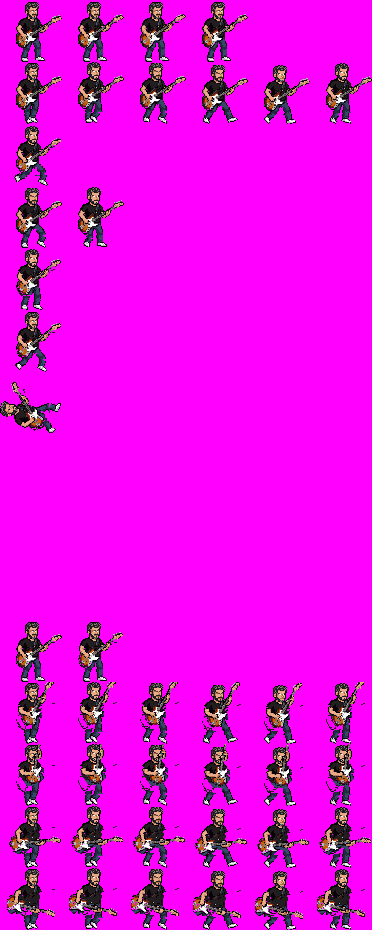
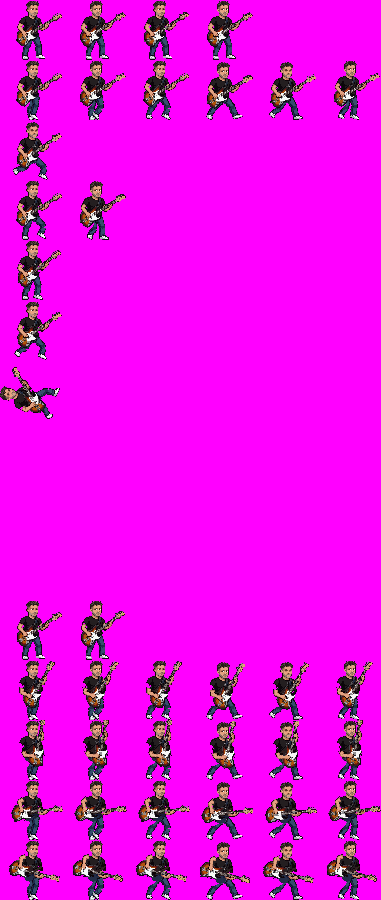
Mat : le nouveau Mat dans le jeu pour tout le monde (plus de mode essai)
Ses planches (repos, marche, visée, saut, mur, échelle, portrait, intro) remplacent
celles de l'ancien Mat ; ses tailles par situation sont dans DENSITE_HEROS
(outils/anime-instrument.py) et dans feuilles-objets.ts pour le décor.
Retiré : src/rendu/essai-mat.ts et ses appels ; les sources sont dans
assets-sources/heros/mat-source/ ; l'outil est outils/prepare-mat.py.

Claude-Session: https://claude.ai/code/session_01HgrvGb7mGF2qXcgMaLdPZX

diff --git a/src/rendu/feuilles-objets.ts b/src/rendu/feuilles-objets.ts
@@ -220,12 +220,12 @@ export const FEUILLES_DECOR: Record<string, Feuille> = {
   },
   'mat-echelle': {
     fichier: 'mat-echelle.png',
-    w: 70,
-    h: 143,
+    w: 52,
+    h: 118,
     images: [1, 1],
     rythme: 1,
-    densite: 6,
-    pied: 35,
+    densite: 4.3,
+    pied: 26,
   },
   'jbt-echelle': {
     fichier: 'jbt-echelle.png',
@@ -255,11 +255,11 @@ export const FEUILLES_DECOR: Record<string, Feuille> = {
     pied: 32,
   },
   'tom-saut': { fichier: 'tom-saut.png', w: 121, h: 116, images: [1], rythme: 1, densite: 6, pied: 60 },
-  'mat-saut': { fichier: 'mat-saut.png', w: 107, h: 104, images: [1], rythme: 1, densite: 6, pied: 53 },
+  'mat-saut': { fichier: 'mat-saut.png', w: 92, h: 97, images: [1], rythme: 1, densite: 5.2, pied: 46 },
   'jbt-saut': { fichier: 'jbt-saut.png', w: 101, h: 108, images: [1], rythme: 1, densite: 6, pied: 50 },
   'jbm-saut': { fichier: 'jbm-saut.png', w: 103, h: 112, images: [1], rythme: 1, densite: 6, pied: 52 },
   'jbg-saut': { fichier: 'jbg-saut.png', w: 96, h: 115, images: [1], rythme: 1, densite: 6, pied: 48 },
-  'mat-mur': { fichier: 'mat-mur.png', w: 100, h: 247, images: [1], rythme: 1, densite: 12, pied: 50 },
+  'mat-mur': { fichier: 'mat-mur.png', w: 61, h: 112, images: [1], rythme: 1, densite: 4.7, pied: 36 },
   'tom-mur': { fichier: 'tom-mur.png', w: 142, h: 280, images: [1], rythme: 1, densite: 12, pied: 92 },
   'jbg-mur': { fichier: 'jbg-mur.png', w: 202, h: 243, images: [1], rythme: 1, densite: 12, pied: 152 },
   'jbt-mur': { fichier: 'jbt-mur.png', w: 150, h: 267, images: [1], rythme: 1, densite: 12, pied: 100 },

diff --git a/src/rendu/feuilles-heros.ts b/src/rendu/feuilles-heros.ts
@@ -5,13 +5,13 @@ import type { Feuille } from './feuilles';
 // repos 4, course 6, saut, échelle 2, tyrolienne, mur, mort, tir 2, puis la course en visant (codes 1 à 4)
 const ANIMATIONS_HEROS = [4, 6, 1, 2, 1, 1, 1, 0, 0, 0, 2, 6, 6, 6, 6];
 
-/** Un héros avec son instrument dans le sprite ; `pied` : milieu des pieds dans l'image. */
-const heros = (fichier: string, w: number, h: number, pied: number): Feuille => ({
+/** Un héros avec son instrument dans le sprite ; `pied` : milieu des pieds dans l'image ; `densite` : pixels de planche par pixel du jeu. */
+const heros = (fichier: string, w: number, h: number, pied: number, densite = 6): Feuille => ({
   fichier,
   w,
   h,
   pied,
-  densite: 6,
+  densite,
   visees: 11,
   images: ANIMATIONS_HEROS,
   rythme: 5,
@@ -22,6 +22,6 @@ export const FEUILLES_HEROS: Partial<Record<Genre, Feuille>> = {
   [G.JBT]: heros('jbt-instrument.png', 121, 122, 65),
   [G.JBM]: heros('jbm-instrument.png', 142, 123, 82),
   [G.JBG]: heros('jbg-instrument.png', 121, 123, 67),
-  [G.MAT]: heros('mat-instrument.png', 124, 124, 70),
+  [G.MAT]: heros('mat-instrument.png', 127, 120, 68, 5.6),
   [G.TOM]: heros('tom-instrument.png', 125, 144, 73),
 };

diff --git a/src/ui/intro.ts b/src/ui/intro.ts
@@ -1,7 +1,6 @@
 import type { Synthe } from '../audio/synthe';
 import { G } from '../jeu/vue';
 import { FEUILLES } from '../rendu/feuilles';
-import { essaiMat } from '../rendu/essai-mat';
 import { imageDe, progresEssentielles } from '../rendu/feuilles-images';
 import { ecritCentre } from '../rendu/police';
 import { VERSION } from '../version';
@@ -54,7 +53,7 @@ export class Intro {
     this.passer.hidden = true;
     this.passer.addEventListener('click', () => this.termine());
     toile.after(this.passer);
-    this.bases.src = `${import.meta.env.BASE_URL}sprites/${essaiMat.actif ? 'intro-heros-essai' : 'intro-heros'}.png?v=${VERSION}`;
+    this.bases.src = `${import.meta.env.BASE_URL}sprites/intro-heros.png?v=${VERSION}`;
   }
 
   lance(): void {

diff --git a/src/ui/portraits.ts b/src/ui/portraits.ts
@@ -1,7 +1,6 @@
 import { ANIM, G } from '../jeu/vue';
 import { VERSION } from '../version';
 import type { Qui } from '../niveaux/format';
-import { essaiMat } from '../rendu/essai-mat';
 import { HEROS } from '../entites/heros';
 import { DESSINS_BOSS } from '../rendu/dessins-boss';
 import { dessineHeros, dessineKiwi } from '../rendu/dessins-heros';
@@ -83,7 +82,7 @@ const IMAGES: Partial<Record<Qui, string>> = {
 };
 
 export function portrait(qui: Qui): string {
-  const fichier = qui === 'MAT' && essaiMat.actif ? 'mat-essai' : IMAGES[qui];
+  const fichier = IMAGES[qui];
   if (fichier) return `${import.meta.env.BASE_URL}portraits/${fichier}.png?v=${VERSION}`;
   let url = cache.get(qui);
   if (url) return url;

diff --git a/src/main.ts b/src/main.ts
@@ -8,14 +8,12 @@ import { installeAntiZoom } from './entrees/anti-zoom';
 import { installeCurseurVoile } from './ui/curseur-voile';
 import { choisitVersions } from './niveaux';
 import { afficheBandeauEssai, afficheMesuresEssai, modeEssai } from './ui/essai';
-import { activeMatEssai } from './rendu/essai-mat';
 
 /** Point d'entrée : DKK : Rock Never Dies. */
 // le mode essai d'abord : les niveaux refaits remplacent les originaux avant que rien ne soit lu
 choisitVersions(modeEssai());
 if (modeEssai()) {
   afficheBandeauEssai();
-  activeMatEssai(); // le nouveau Mat, à l'essai
 }
 const app = new App();
 app.demarre();

diff --git a/outils/prepare-mat.py b/outils/prepare-mat.py
@@ -1,17 +1,17 @@
 #!/usr/bin/env python3
-"""Le nouveau Mat (mode essai) : ses images fournies → les planches du jeu, à côté de celles de l'ancien Mat.
+"""Mat : ses images fournies → les planches du jeu.
 
-Usage : python3 outils/prepare-mat-essai.py && python3 outils/anime-instrument.py mat-essai
+Usage : python3 outils/prepare-mat.py && python3 outils/anime-instrument.py mat
         (Pillow, numpy et scipy requis)
 
-Entrées : assets-sources/heros/mat-essai/ : repos.jpg (debout, la basse en main), saut.jpg, mur.jpg (de profil contre la
+Entrées : assets-sources/heros/mat-source/ : repos.jpg (debout, la basse en main), saut.jpg, mur.jpg (de profil contre la
           paroi), echelle.jpg (de dos) ; sur fond magenta, à la même échelle (une case de pixel art fait 9,75 pixels).
-Sorties : assets-sources/heros/mat-essai-instrument-base.png : Mat debout, remis sur sa grille, dans un carré : la référence
+Sorties : assets-sources/heros/mat-instrument-base.png : Mat debout, remis sur sa grille, dans un carré : la référence
           d'où anime-instrument.py tire la planche du héros (la marche, la visée : la basse et les bras pivotent ensemble,
           voir gabarits_instrument.py) ;
-          public/sprites/mat-essai-saut.png, mat-essai-mur.png, mat-essai-echelle.png (de dos, puis son miroir : les deux
-          temps de la montée, les jambes alternent), public/portraits/mat-essai.png, intro-heros-essai.png (les silhouettes de
-          l'intro, celle de Mat remplacée) ; les tailles et les pieds s'affichent (à reporter dans src/rendu/essai-mat.ts).
+          public/sprites/mat-saut.png, mat-mur.png, mat-echelle.png (de dos, puis son miroir : les deux temps de la montée,
+          les jambes alternent), public/portraits/mat.png, intro-heros.png (les silhouettes de l'intro, celle de Mat remplacée).
+          Les tailles et les pieds s'affichent : à reporter dans src/rendu/feuilles-objets.ts (les planches du décor).
 
 Chaque image est remise sur sa grille : la grille est retrouvée sur les contours, chaque case prend la couleur médiane de son
 centre ; le liseré violet que laisse le fond magenta devient le contour sombre. Un pixel de la grille est un pixel de planche
@@ -24,7 +24,7 @@ from PIL import Image
 from scipy import ndimage
 
 RACINE = pathlib.Path(__file__).resolve().parent.parent
-SRC = RACINE / 'assets-sources' / 'heros' / 'mat-essai'
+SRC = RACINE / 'assets-sources' / 'heros' / 'mat-source'
 SPRITES = RACINE / 'public' / 'sprites'
 CASE = 9.75  # la taille d'une case de pixel art dans les images fournies
 CONTOUR = (28, 22, 30)
@@ -81,8 +81,8 @@ def reference(repos):
     h, w = repos.shape[:2]
     carre = Image.new('RGBA', (CARRE, CARRE), (0, 0, 0, 0))
     carre.alpha_composite(Image.fromarray(repos), (14, CARRE - h))
-    carre.save(RACINE / 'assets-sources' / 'heros' / 'mat-essai-instrument-base.png')
-    print(f'mat-essai-instrument-base.png : {CARRE} x {CARRE}')
+    carre.save(RACINE / 'assets-sources' / 'heros' / 'mat-instrument-base.png')
+    print(f'mat-instrument-base.png : {CARRE} x {CARRE}')
 
 
 def image_seule(nat, nom, pied):
@@ -96,8 +96,8 @@ def echelle_deux_temps(nat):
     planche = Image.new('RGBA', (im.width, im.height * 2), (0, 0, 0, 0))
     planche.alpha_composite(im, (0, 0))
     planche.alpha_composite(im.transpose(Image.FLIP_LEFT_RIGHT), (0, im.height))
-    planche.save(SPRITES / 'mat-essai-echelle.png', optimize=True)
-    print(f'mat-essai-echelle.png : w {im.width}, h {im.height}, pied {im.width // 2}')
+    planche.save(SPRITES / 'mat-echelle.png', optimize=True)
+    print(f'mat-echelle.png : w {im.width}, h {im.height}, pied {im.width // 2}')
 
 
 def portrait(repos):
@@ -108,9 +108,9 @@ def portrait(repos):
     xs = np.nonzero(al[haut : haut + 14].any(0))[0]
     cx = (xs.min() + xs.max()) // 2
     Image.fromarray(repos).crop((cx - 17, haut - 2, cx + 17, haut + 32)).resize((44, 44), Image.NEAREST).save(
-        RACINE / 'public' / 'portraits' / 'mat-essai.png', optimize=True
+        RACINE / 'public' / 'portraits' / 'mat.png', optimize=True
     )
-    print('portraits/mat-essai.png : 44 x 44')  # le cadrage de la tête, agrandi au format des autres portraits
+    print('portraits/mat.png : 44 x 44')  # le cadrage de la tête, agrandi au format des autres portraits
 
 
 def intro(repos):
@@ -121,17 +121,17 @@ def intro(repos):
     k = 110 / im.height
     im = im.resize((round(im.width * k), 110), Image.NEAREST)
     planche.alpha_composite(im, (3 * 128 + 64 - im.width // 2, 128 - im.height))
-    planche.save(SPRITES / 'intro-heros-essai.png', optimize=True)
-    print('intro-heros-essai.png')
+    planche.save(SPRITES / 'intro-heros.png', optimize=True)
+    print('intro-heros.png')
 
 
 def main():
     repos = regrille('repos.jpg')
     reference(repos)
     saut = regrille('saut.jpg')
-    image_seule(saut, 'mat-essai-saut', saut.shape[1] // 2)
+    image_seule(saut, 'mat-saut', saut.shape[1] // 2)
     mur = regrille('mur.jpg')  # il regarde la paroi, à droite
-    image_seule(mur, 'mat-essai-mur', mur.shape[1] - round(BORD_MUR * DENSITE))
+    image_seule(mur, 'mat-mur', mur.shape[1] - round(BORD_MUR * DENSITE))
     echelle_deux_temps(regrille('echelle.jpg'))
     portrait(repos)
     intro(repos)

diff --git a/outils/anime-instrument.py b/outils/anime-instrument.py
@@ -155,11 +155,15 @@ def fabrique(nom):
     ap.alpha_composite(planche)
     ap.resize((ap.width // 2, ap.height // 2), Image.NEAREST).save(SRC / f'apercu-{nom}-instrument.png')
     meta = {'fichier': f'{nom}-instrument.png', 'w': w, 'h': h, 'pied': (ancre + MARGE - x0) // REDUCTION}
+    if nom in DENSITE_HEROS:
+        meta['densite'] = DENSITE_HEROS[nom]
     (SRC / f'meta-{nom}.json').write_text(json.dumps(meta, indent=2) + '\n')
     print(nom, json.dumps(meta))
 
 
 GENRES = {'jbt': 'JBT', 'jbm': 'JBM', 'jbg': 'JBG', 'mat': 'MAT', 'tom': 'TOM'}
+# pixels de planche par pixel du jeu, quand le héros n'est pas à 6 (un Mat plus grand : son image est plus petite)
+DENSITE_HEROS = {'mat': 5.6}
 
 
 def ecrit_ts():
@@ -169,16 +173,17 @@ def ecrit_ts():
         f = SRC / f'meta-{nom}.json'
         if f.exists():
             m = json.loads(f.read_text())
-            lignes.append(f"  [G.{genre}]: heros('{m['fichier']}', {m['w']}, {m['h']}, {m['pied']}),")
+            dens = f", {m['densite']}" if 'densite' in m else ''
+            lignes.append(f"  [G.{genre}]: heros('{m['fichier']}', {m['w']}, {m['h']}, {m['pied']}{dens}),")
     (RACINE / 'src' / 'rendu' / 'feuilles-heros.ts').write_text(
         "// Fichier généré par outils/anime-instrument.py : ne pas modifier à la main.\n"
         "import { G, type Genre } from '../jeu/vue';\n"
         "import type { Feuille } from './feuilles';\n\n"
         "// repos 4, course 6, saut, échelle 2, tyrolienne, mur, mort, tir 2, puis la course en visant (codes 1 à 4)\n"
         "const ANIMATIONS_HEROS = [4, 6, 1, 2, 1, 1, 1, 0, 0, 0, 2, 6, 6, 6, 6];\n\n"
-        "/** Un héros avec son instrument dans le sprite ; `pied` : milieu des pieds dans l'image. */\n"
-        "const heros = (fichier: string, w: number, h: number, pied: number): Feuille => ({\n"
-        "  fichier,\n  w,\n  h,\n  pied,\n  densite: 6,\n  visees: 11,\n  images: ANIMATIONS_HEROS,\n  rythme: 5,\n  cycle: 12,\n});\n\n"
+        "/** Un héros avec son instrument dans le sprite ; `pied` : milieu des pieds dans l'image ; `densite` : pixels de planche par pixel du jeu. */\n"
+        "const heros = (fichier: string, w: number, h: number, pied: number, densite = 6): Feuille => ({\n"
+        "  fichier,\n  w,\n  h,\n  pied,\n  densite,\n  visees: 11,\n  images: ANIMATIONS_HEROS,\n  rythme: 5,\n  cycle: 12,\n});\n\n"
         "export const FEUILLES_HEROS: Partial<Record<Genre, Feuille>> = {\n" + '\n'.join(lignes) + '\n};\n'
     )
 

diff --git a/outils/gabarits_instrument.py b/outils/gabarits_instrument.py
@@ -45,26 +45,7 @@ def source_jbm(x, y, rgb):
     return r + g + b > 180 and abs(r - b) < 25
 
 
-# ---- Mat : basse tenue comme la guitare de Tom
-MAT = [
-    Membre('arme', [(36, 96), (62, 96), (66, 122), (98, 120), (108, 108), (140, 96), (176, 70), (222, 60), (224, 100),
-                    (170, 108), (168, 128), (142, 134), (120, 152), (118, 164), (100, 194), (36, 194)],
-           (60, 102), filtre=pas_noir, z=1, epure=True),
-] + jambes(
-    [(100, 150), (140, 150), (140, 205), (100, 205)], [(104, 205), (154, 205), (154, 250), (104, 250)],
-    [(58, 186), (102, 186), (102, 214), (58, 214)], [(54, 212), (102, 212), (102, 252), (54, 252)],
-    (122, 158), (122, 206), (84, 186), (76, 212), ((122, 206), (0, 1)), ((76, 212), (0, 1)), retient=12)
-CORPS_MAT = [(52, 96), (126, 92), (134, 130), (128, 172), (80, 172), (50, 130)]
-
-
-def source_mat(x, y, rgb):
-    r, g, b = rgb
-    if y < 152:
-        return 18 <= r <= 48 and 18 <= g <= 48 and 18 <= b <= 52
-    return b > r + 25 and b < 140 and r < 70
-
-
-# ---- Mat à l'essai (outils/prepare-mat-essai.py) : la basse et les deux bras pivotent ensemble ; les points sont donnés sur sa
+# ---- Mat (outils/prepare-mat-essai.py) : la basse et les deux bras pivotent ensemble ; les points sont donnés sur sa
 # grille d'origine (Mat debout, 118 pixels), posée à 14 pixels du bord et agrandie deux fois dans l'espace de travail
 def _me(*points):
     return [(2 * (x + 14), 2 * (y + 2)) for x, y in points]
@@ -133,8 +114,7 @@ VISEES_BRAS = {1: -40, 2: -75, 3: 35, 4: 70}
 HEROS = {
     'tom': (MEMBRES_TOM, CORPS_TOM, SOURCE_TOM, 262, VISEES_GUITARE),
     'jbm': (JBM, CORPS_JBM, source_jbm, 117, VISEES_BRAS),
-    'mat': (MAT, CORPS_MAT, source_mat, 112, VISEES_GUITARE),
     'jbt': (JBT, CORPS_JBT, source_jbt, 118, VISEES_BRAS),
     'jbg': (JBG, CORPS_JBG, None, 118, VISEES_GUITARE),
-    'mat-essai': (MAT_ESSAI, CORPS_MAT_ESSAI, source_mat_essai, 98, VISEES_GUITARE),
+    'mat': (MAT_ESSAI, CORPS_MAT_ESSAI, source_mat_essai, 98, VISEES_GUITARE),
 }

diff --git a/outils/prepare_instrument.py b/outils/prepare_instrument.py
@@ -16,9 +16,8 @@ SPECS = {
     'tom': ('tom-guitare-base.png', 2.0, 1.0),
     'jbm': ('jbm-instrument-base.png', 10.0, 2.5),
     'jbt': ('jbt-instrument-base.png', 10.0, 2.5),
-    'mat': ('mat-instrument-base.png', 11.0, 2.75),
     'jbg': ('jbg-instrument-base.png', 5.0, 1.25),
-    'mat-essai': ('mat-essai-instrument-base.png', 1.0, 2.0),  # déjà sur sa grille (outils/prepare-mat-essai.py)
+    'mat': ('mat-instrument-base.png', 1.0, 2.0),  # déjà sur sa grille (outils/prepare-mat-essai.py)
 }
 
 

diff --git a/README.md b/README.md
@@ -420,10 +420,11 @@ validé.
   ne l'ont qu'une fois son `id` ajouté à `REFONTES_PUBLIEES` (augmenter alors `VERSION_PROTOCOLE`) ; avant, on l'essaie en
   ouvrant le jeu avec `?essai` à la fin de l'adresse (rien n'est retenu : sans lui, c'est le jeu de tout le monde ; un
   bandeau le rappelle) : le menu « Niveaux refaits » propose chaque niveau refait dans sa version d'avant et dans sa version
-  refaite, sans rien sauvegarder. Le mode essai montre aussi le nouveau Mat : ses images (`assets-sources/heros/mat-essai/`)
-  passent par `outils/prepare-mat-essai.py` puis `outils/anime-instrument.py mat-essai` (la marche et la visée, comme les autres
-  héros) et remplacent celles de l'ancien en jeu, à l'écran titre, dans l'intro, à la découverte des cages et dans les dialogues
-  (`src/rendu/essai-mat.ts`).
+  refaite, sans rien sauvegarder.
+  Mat est fait à partir de ses images (`assets-sources/heros/mat-source/`) : `outils/prepare-mat.py` (saut, mur, échelle de dos
+  et son miroir, portrait, intro), puis `outils/anime-instrument.py mat` (la planche du héros : marche et visée, la basse et les
+  bras pivotant ensemble). Sa taille par situation est dans `DENSITE_HEROS` (`outils/anime-instrument.py`) et dans
+  `src/rendu/feuilles-objets.ts` pour le décor (`fixe-objets.py` ne sait pas encore les refaire : à reporter à la main).
   `python3 outils/mesure-niveaux.py` compare les cartes : la montée et la casse du chemin le moins cher, la montée imposée
   même en cassant tout (faible : on traverse tout droit en cassant les murs), les gouffres et les falaises.
   **Les forteresses ne se grimpent pas par la façade** : à chaque étage, un balcon de quatre tuiles à gauche (un ennemi dessus : on
